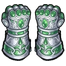
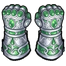
Trang bị: kiếm Tiên mũi hướng lên phải, găng Linh đổi chỗ trái/phải
Claude-Session: https://claude.ai/code/session_014A94BHnyL4tu48AS77QbVM

diff --git a/src/config/items.ts b/src/config/items.ts
@@ -190,7 +190,7 @@ export function weaponHoldSrc(it: Pick<ItemInst, 'weaponId' | 'tier'>, img = 'he
 }
 
 /** Đổi số này khi vẽ lại hình trang bị để trình duyệt tải bản mới */
-export const GEAR_ART_V = 19;
+export const GEAR_ART_V = 20;
 
 export interface BibaoDef {
   id: string;

diff --git a/tools/art/gear_from_ai.py b/tools/art/gear_from_ai.py
@@ -60,6 +60,7 @@ ROTATE = {}
 # Đồng bộ góc: kiếm/đao/thương/cung xoay để đường nối 2 đầu xa nhất (mũi–chuôi, đầu cánh cung–đầu cánh cung) nghiêng đúng 45°
 AXIS45 = {'wp_sword', 'wp_blade', 'wp_spear', 'wp_bow'}
 # Găng: tách 2 chiếc, xoay mỗi chiếc thẳng đứng (nắm tay hướng lên), xếp cạnh nhau. Đạo: 2 chiếc chạm nhau → cắt theo đường này
+TIP_FLIP = {(3, 'wp_sword')}                                         # mũi ở đầu dưới-trái sau khi xoay → quay 180°
 GLOVE_CUT = {6: [(167, 0), (167, 60), (150, 95), (120, 125), (102, 145), (100, 230)]}
 FLOOD = {(5, 'wp_sword'): 70, (5, 'wp_blade'): 60}                    # lưỡi trắng gần như nền
 
@@ -267,7 +268,7 @@ def upright(g, flip=False):
 def glove_pair(t, rgba):
     if t == 2:                                                          # Linh: chiếc ghép (nắm tay + cổ găng) và bản lật gương
         j = np.array(Image.open(os.path.join(REF, 'linh_glove_joined.png')).convert('RGBA'))
-        L, R = upright(j, flip=True), upright(j[:, ::-1].copy(), flip=True)
+        R, L = upright(j, flip=True), upright(j[:, ::-1].copy(), flip=True)   # ngón cái hướng vào trong như các bậc khác
     else:
         al = rgba[..., 3]
         if t in GLOVE_CUT:
@@ -303,7 +304,8 @@ def main():
             im = Image.fromarray(rgba, 'RGBA')
             im = im.crop(im.getchannel('A').point(lambda v: 255 if v > 60 else 0).getbbox())
             if k in AXIS45:
-                im = im.rotate(45 - tip_angle(np.array(im)[..., 3] > 100), resample=Image.BICUBIC, expand=True)
+                im = im.rotate(45 - tip_angle(np.array(im)[..., 3] > 100) + (180 if (t, k) in TIP_FLIP else 0),
+                               resample=Image.BICUBIC, expand=True)
                 im = im.crop(im.getchannel('A').point(lambda v: 255 if v > 60 else 0).getbbox())
             if k == 'wp_bow':                                            # cánh cung cùng một phía (dưới-phải), dây phía trên-trái
                 ys, xs = np.nonzero(np.array(im)[..., 3] > 100)
